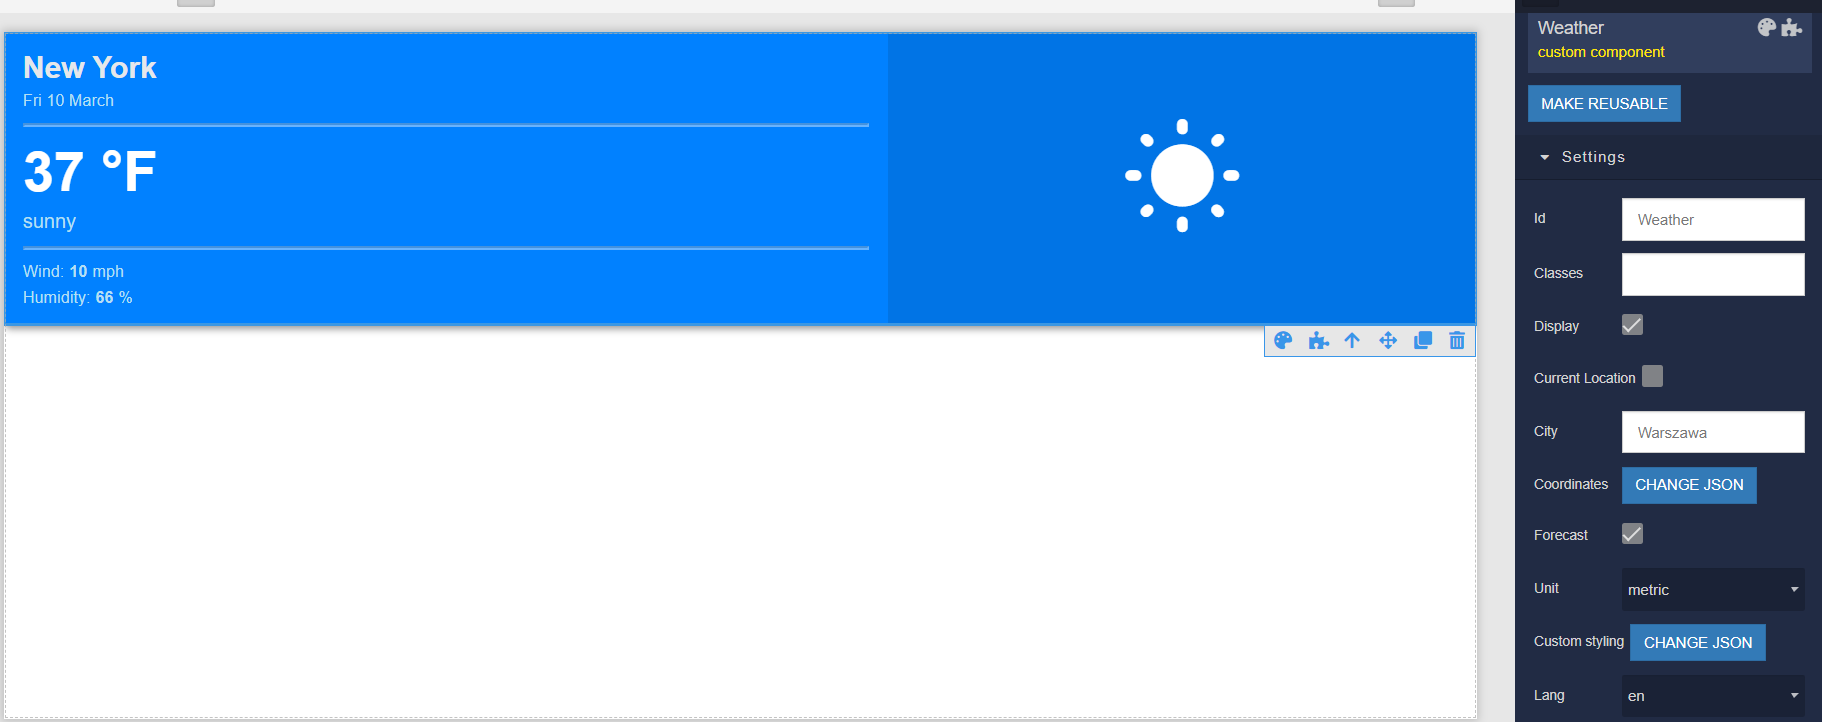
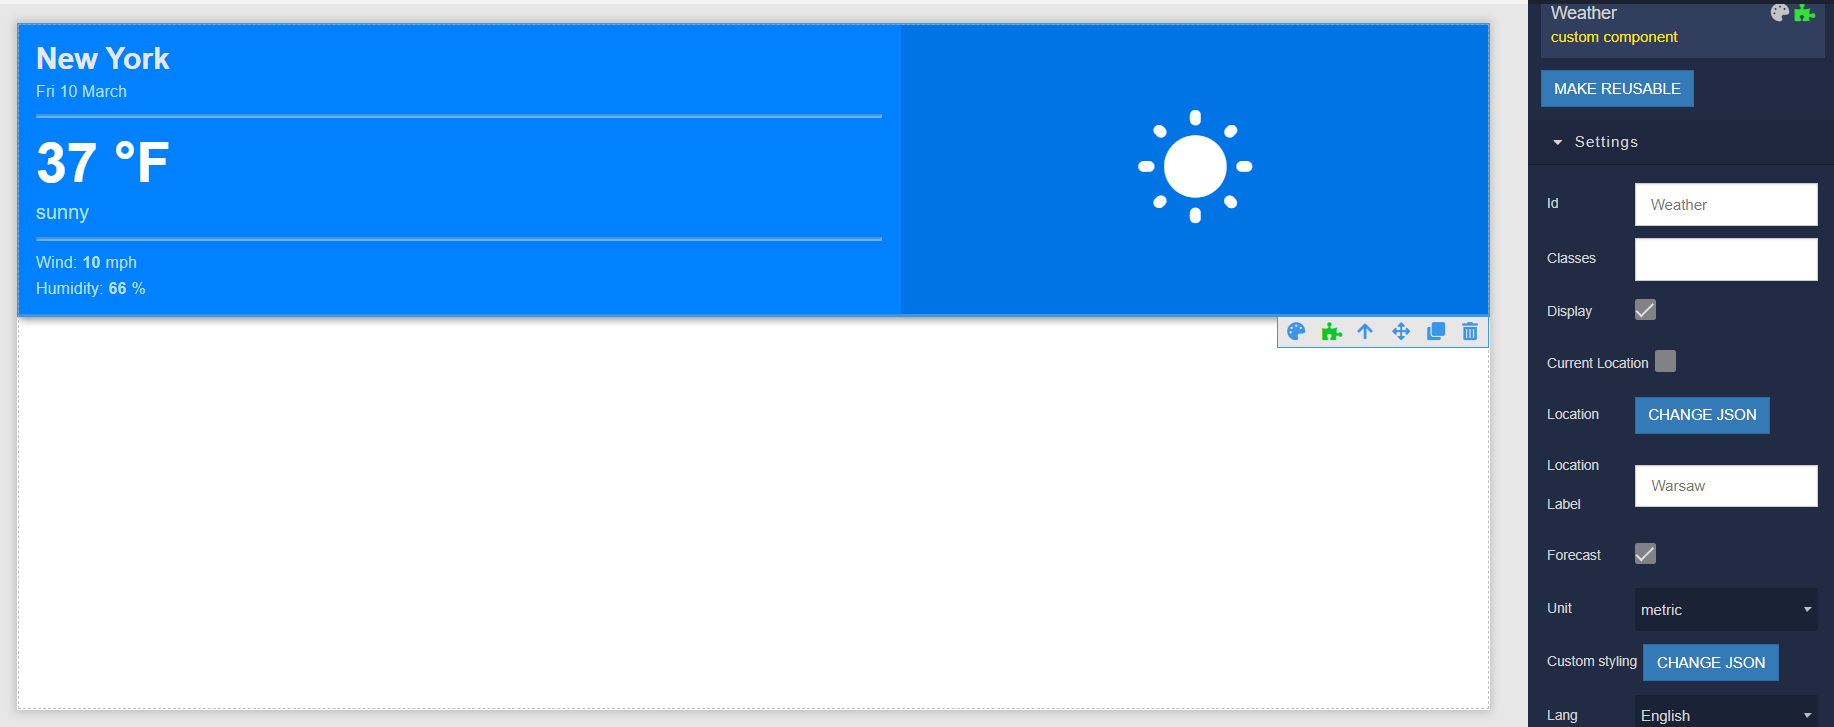
refactoring

diff --git a/components/bl-weather-component/src/index.js b/components/bl-weather-component/src/index.js
@@ -6,16 +6,26 @@ const { cn } = BackendlessUI.CSSUtils;
 
 const UNITS = {
   standard: { temperature: 'K', windSpeed: 'm/s' },
-  metric  : { temperature: '°C', windSpeed: 'm/s' },
-  imperial: { temperature: '°F', windSpeed: 'mph' },
+  metric: { temperature: '°C', windSpeed: 'm/s' },
+  imperial: { temperature: '°F', windSpeed: 'mph' }
 };
-const BASE_URL = 'https://api.openweathermap.org/data/2.5';
 
 export default function WeatherComponent({ component, elRef, settings }) {
-  const { classList, style, display, currentLocation, city, coords, forecast, unit, theme, lang } = component;
+  const { classList, style, display, currentLocation, location, label, forecast, unit, theme, lang, } = component;
   const { API_KEY } = settings;
 
-  const { location, weatherCity, hasGeoAccess } = useOptions(currentLocation, city, coords, API_KEY);
+  const [options, setOptions] = useState({ key: API_KEY, lat: null, lon: null, lang, unit });
+
+  useEffect(async () => {
+    if (currentLocation) {
+      const locationData = await getLocation();
+      setOptions({ ...options, lat: locationData.lat, lon: locationData.lng });
+    } else if (location?.lat && location.lng) {
+      setOptions({ ...options, lat: location.lat, lon: location.lng });
+    } else {
+      console.error('Location data is not provided');
+    }
+  }, [currentLocation, location]);
 
   if (!display) {
     return null;
@@ -23,29 +33,16 @@ export default function WeatherComponent({ component, elRef, settings }) {
 
   return (
     <div ref={ elRef } className={ cn('bl-customComponent-weather', ...classList) } style={ style }>
-      { hasGeoAccess && location?.lat && location.lng && (
-        <Weather
-          settings={ settings }
-          lat={ location.lat }
-          lon={ location.lng }
-          weatherCity={ weatherCity }
-          showForecast={ forecast }
-          unit={ unit }
-          theme={ theme }
-          lang={ lang }
-        />
-      ) }
-      { !hasGeoAccess && (
-        <p className="warn">To obtain weather data, you must allow access to your location.</p>
+      { options?.lat && options.lon && (
+        <Weather options={ options } locationLabel={ label } showForecast={ forecast } theme={ theme } lang={ lang } />
       ) }
     </div>
   );
 }
 
-function Weather({ settings, lat, lon, weatherCity, showForecast, theme, unit, lang }) {
-  const key = settings.API_KEY;
-  const unitsLabels = UNITS[unit];
-  const { data, isLoading, errorMessage } = useOpenWeather({ key, lat, lon, lang, unit });
+function Weather({ options, locationLabel, showForecast, theme, lang }) {
+  const unitsLabels = UNITS[options.unit];
+  const { data, isLoading, errorMessage } = useOpenWeather(options);
 
   return (
     <ReactWeather
@@ -53,7 +50,7 @@ function Weather({ settings, lat, lon, weatherCity, showForecast, theme, unit, l
       errorMessage={ errorMessage }
       data={ data }
       lang={ lang }
-      locationLabel={ weatherCity }
+      locationLabel={ locationLabel }
       unitsLabels={ unitsLabels }
       showForecast={ showForecast }
       theme={ theme }
@@ -61,49 +58,8 @@ function Weather({ settings, lat, lon, weatherCity, showForecast, theme, unit, l
   );
 }
 
-function useOptions(currentLocation, city, coords, API_KEY) {
-  const [location, setLocation] = useState(null);
-  const [weatherCity, setWeatherCity] = useState(null);
-  const [hasGeoAccess, setHasGeoAccess] = useState(true);
-
-  useEffect(() => {
-    if (currentLocation && navigator.geolocation) {
-      navigator.geolocation.getCurrentPosition(
-        position => setLocation({
-          lat: position.coords.latitude,
-          lng: position.coords.longitude }),
-        error => {
-          console.error(error);
-          setHasGeoAccess(false);
-        }
-      );
-    } else if (city) {
-      fetch(`${ BASE_URL }/weather?q=${ city }&appid=${ API_KEY }`)
-        .then(response => response.json())
-        .then(data => {
-          setLocation({
-            lat: data.coord.lat,
-            lng: data.coord.lon });
-          setWeatherCity(data.name);
-        });
-    } else if (coords?.lat && coords.lng) {
-      setLocation({
-        lat: coords.lat,
-        lng: coords.lng });
-    }
-  }, [currentLocation, city, coords, API_KEY]);
-
-  useEffect(() => {
-    if (location?.lat && location.lng && !weatherCity) {
-      setCityByLocation(location);
-    }
-  }, [location, weatherCity]);
-
-  const setCityByLocation = (location) => {
-    fetch(`${ BASE_URL }/weather?lat=${ location.lat }&lon=${ location.lng }&appid=${ API_KEY }`)
-      .then(response => response.json())
-      .then(data => setWeatherCity(data.name));
-  };
-
-  return { location, weatherCity, hasGeoAccess };
+async function getLocation() {
+  return await (async function() {
+    return BackendlessUI.Navigator.getCurrentGeolocation();
+  })();
 }

diff --git a/components/bl-weather-component/README.md b/components/bl-weather-component/README.md
@@ -1,6 +1,6 @@
 # Weather
 
-Weather is the component that can be used in Backendless [UI-Builder](https://backendless.com/developers/#ui-builder). It allows you to create a weather widget for the current day or with the addition of a forecast in your application. You can apply your own settings for weather display or leave the default. You can find more information about the widget in the [React Open Weather](https://www.jsdelivr.com/package/npm/react-open-weather?path=src%2Fjs) library.
+Weather is the component that can be used in Backendless [UI-Builder](https://backendless.com/developers/#ui-builder). It allows you to create a weather widget for the current day or with the addition of a forecast in your application. You can apply your own settings for weather display or leave the default. You can find more information about the widget in the [React Open Weather](https://github.com/farahat80/react-open-weather/) library.
 
 <p align="center">
   <img src="./thumbnail.png" alt="main thumbnail" width="780"/>
@@ -8,15 +8,15 @@ Weather is the component that can be used in Backendless [UI-Builder](https://ba
 
 ## Properties
 
-| Property                                | Type                                                                                                                                                                                                                                                                                                                                 | Default value                         | Logic                | Data Binding | UI Setting | Description                                                                                                                                                        |
-|-----------------------------------------|--------------------------------------------------------------------------------------------------------------------------------------------------------------------------------------------------------------------------------------------------------------------------------------------------------------------------------------|---------------------------------------|----------------------|--------------|------------|--------------------------------------------------------------------------------------------------------------------------------------------------------------------|
-| Current Location <br> `currentLocation` | *Checkbox*                                                                                                                                                                                                                                                                                                                           | `false`                               |                      | NO           | YES        | Controls the display of weather by current location.                                                                                                               |
-| City <br> `city`                        | *Text*                                                                                                                                                                                                                                                                                                                               | "New York"                            |                      | NO           | YES        | Controls the city name to display the weather for it.                                                                                                              |
-| Coordinates <br> `coords`               | *JSON*                                                                                                                                                                                                                                                                                                                               | `{"lat":40.730610, "lng":-73.935242}` | Coordinates Logic    | YES          | YES        | Specifies a JSON object containing the latitude and longitude coordinates data to display the weather for them. Signature of coords: `{lat: Number, lng: Number}`. |
-| Forecast <br> `forecast`                | *Checkbox*                                                                                                                                                                                                                                                                                                                           | `false`                               |                      | NO           | YES        | Controls the display the weather forecast.                                                                                                                         |
-| Unit <br> `unit`                        | *Select* <br> [`standard`, `metric`, `imperial`]                                                                                                                                                                                                                                                                                     | `standard`                            |                      | NO           | YES        | Controls the unit of measurement.                                                                                                                                  |
-| Custom styling <br> `theme`             | *JSON*                                                                                                                                                                                                                                                                                                                               | `{}`                                  | Custom Styling Logic | NO           | YES        | Specifies a JSON object containing the custom styling data. Signature of theme in [Theme Example](#Theme). Watch [Codeless Examples](#Examples).                   |
-| Lang <br> `lang`                        | *Select* <br> [Catalan: `ca`, Czech: `cs`, English: `en`, Spanish: `es`, German: `de`, Slovenian: `sl`, Japanese: `ja`, Chinese(Traditional): `zh_tw`, Ukrainian: `uk`, French: `fr`, Italian: `it`, Polish: `pl`, Turkish: `tr`, Danish: `da`, Portuguese(Brazil): `pt_br`, Portuguese: `pt`, Dutch: `nl`, Dutch(Belgium): `nl_be`] | English: `en`                         |                      | NO           | YES        | Controls the language to show `humidity` and `wind speed`.                                                                                                         |
+| Property                                | Type                                                                                                                                                                                                                                                                                                                                 | Default value                         | Logic                | Data Binding | UI Setting | Description                                                                                                                                                            |
+|-----------------------------------------|--------------------------------------------------------------------------------------------------------------------------------------------------------------------------------------------------------------------------------------------------------------------------------------------------------------------------------------|---------------------------------------|----------------------|--------------|------------|------------------------------------------------------------------------------------------------------------------------------------------------------------------------|
+| Current Location <br> `currentLocation` | *Checkbox*                                                                                                                                                                                                                                                                                                                           | `false`                               |                      | NO           | YES        | Controls the display of weather by current location.                                                                                                                   |
+| Location <br> `location`                | *JSON*                                                                                                                                                                                                                                                                                                                               | `{"lat":40.730610, "lng":-73.935242}` | Location Logic       | YES          | YES        | Specifies a JSON object containing the latitude and longitude of a location data to display the weather for them. Signature of location: `{lat: Number, lng: Number}`. |
+| Location Label <br> `label`             | *Text*                                                                                                                                                                                                                                                                                                                               | "Long Island City"                    | Location Label Logic | YES          | YES        | Specifies the logic to determine the name of a location or city to display it in the component.                                                                        |
+| Forecast <br> `forecast`                | *Checkbox*                                                                                                                                                                                                                                                                                                                           | `false`                               |                      | NO           | YES        | Controls the display the weather forecast.                                                                                                                             |
+| Unit <br> `unit`                        | *Select* <br> [`standard`, `metric`, `imperial`]                                                                                                                                                                                                                                                                                     | `standard`                            |                      | NO           | YES        | Controls the unit of measurement.                                                                                                                                      |
+| Custom styling <br> `theme`             | *JSON*                                                                                                                                                                                                                                                                                                                               | `{}`                                  | Custom Styling Logic | NO           | YES        | Specifies a JSON object containing the custom styling data. Signature of theme in [Theme Example](#Theme). Watch [Codeless Examples](#Examples).                       |
+| Lang <br> `lang`                        | *Select* <br> [Catalan: `ca`, Czech: `cs`, English: `en`, Spanish: `es`, German: `de`, Slovenian: `sl`, Japanese: `ja`, Chinese(Traditional): `zh_tw`, Ukrainian: `uk`, French: `fr`, Italian: `it`, Polish: `pl`, Turkish: `tr`, Danish: `da`, Portuguese(Brazil): `pt_br`, Portuguese: `pt`, Dutch: `nl`, Dutch(Belgium): `nl_be`] | English: `en`                         |                      | NO           | YES        | Controls the language to show `humidity` and `wind speed`.                                                                                                             |
 
 ## Settings
 
